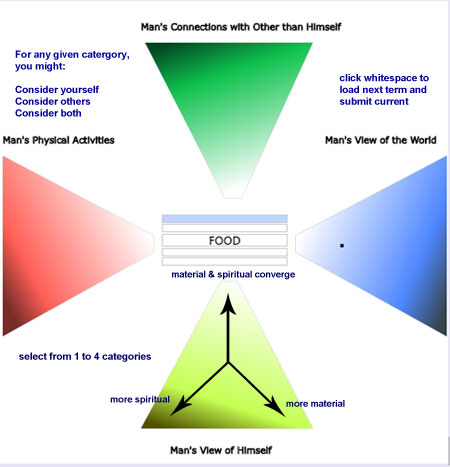
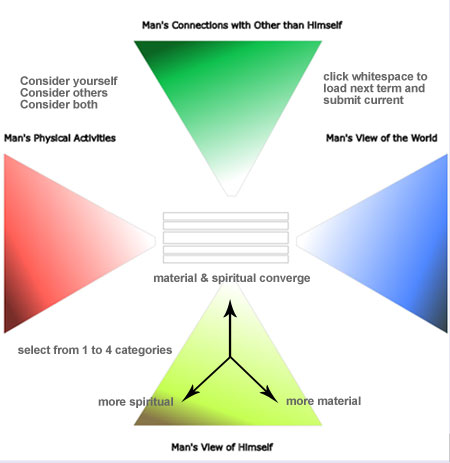
changed gradient and shape

diff --git a/public/js/s1-min.js b/public/js/s1-min.js
@@ -1,1 +1,1 @@
-Ybigh={counter:0,timeoutHandle:"",paths:[],current:"",saveSelection:[],counter_hash:[],click_counter:0,blue:null,green:null,red:null,yellow:null,data:null,confirmIndex:0,to_hex:function(o){return hex=o.toString(16),2==hex.length?hex:"0"+hex},clear:function(){Ybigh.$colors.fadeOut(Ybigh.$colors.remove),Ybigh.timeoutHandle=window.setTimeout(function(){"make-bold active"===$("#"+Ybigh.current).attr("class")&&$("#removeSelections").prop("disabled",!1),Ybigh.show(),$(".cl.world").css({"background-color":"white"}),$(".cl.others").css({"background-color":"white"}),$(".cl.activities").css({"background-color":"white"}),$(".cl.himself").css({"background-color":"white"}),Ybigh.blue=null,Ybigh.green=null,Ybigh.red=null,Ybigh.yellow=null},500)},submitCleared:function(){var o={name:Ybigh.current,wordID:123};$.ajax({type:"POST",url:"/symbol",data:JSON.stringify(o),error:function(o,e,t){},success:function(o){console.log(o),$("#"+Ybigh.current).removeClass("make-bold"),$("#removeSelections").prop("disabled",!0),Ybigh.counter>3&&$("#done").prop("disabled",!1).removeClass("dis")}})},startCounter:function(){Ybigh.timeoutHandle=window.setTimeout(function(){Ybigh.show()},500)},show:function(){var o=$("#phone").html();$(".word");let e;Ybigh.$colors=$('<canvas title="Once selections are made, click whitespace to submit current and load the next word" id="can" height="552" width="552"></canvas>'),$("#container").append(Ybigh.$colors.fadeIn()),Ybigh.colorctx=Ybigh.$colors[0].getContext("2d");var t=getAbsoluteBoundingRect(Ybigh.$colors[0]),c=t.left,l=t.top;Ybigh.render(!0),Ybigh.$colors.on("touchstart mouseup",function(t){if(t.preventDefault(),!Ybigh.current)return void alert("Click a term on the right then make selection(s)");let i="true"===o?t.changedTouches[0]:t,r=i.clientX,h=i.clientY,a=parseInt(r-c),n=parseInt(h-l);var g=0;for(g=0;g<Ybigh.paths.length&&!(e=Ybigh.colorctx.isPointInPath(Ybigh.paths[g],a,n));g++);if(e){let o=Ybigh.get_color(i);if("world"==Ybigh.paths[g].objID){let e=Ybigh.colorctx.createLinearGradient(580,300,90,90);e.addColorStop(0,"#36454F"),e.addColorStop(.1,"#4f87ff"),e.addColorStop(.37,"white"),Ybigh.colorctx.beginPath(),Ybigh.colorctx.moveTo(550,185),Ybigh.colorctx.lineTo(370,280),Ybigh.colorctx.lineTo(370,300),Ybigh.colorctx.lineTo(550,400),Ybigh.colorctx.closePath(),Ybigh.colorctx.fillStyle=e,Ybigh.colorctx.strokeStyle="#D0D0D0",Ybigh.colorctx.stroke(),Ybigh.colorctx.fill(),Ybigh.click_counter+=1,o.name=Ybigh.current,o.category=8,Ybigh.blue=o,Ybigh.colorctx.setTransform(1,0,0,1,0,0),Ybigh.colorctx.fillStyle="#000000",Ybigh.colorctx.fillRect(o.x-2,o.y-2,4,4),Ybigh.counter_hash.push({count:Ybigh.click_counter,category:o.category})}else if("others"==Ybigh.paths[g].objID){let e=Ybigh.colorctx.createLinearGradient(-45,120,27,323);e.addColorStop(.1,"#014421"),e.addColorStop(.37,"#0fc14e"),e.addColorStop(1,"white"),Ybigh.colorctx.beginPath(),Ybigh.colorctx.moveTo(190,50),Ybigh.colorctx.lineTo(285,235),Ybigh.colorctx.lineTo(305,235),Ybigh.colorctx.lineTo(390,50),Ybigh.colorctx.closePath(),Ybigh.colorctx.fillStyle=e,Ybigh.colorctx.strokeStyle="#D0D0D0",Ybigh.colorctx.stroke(),Ybigh.colorctx.fill(),Ybigh.click_counter+=1,o.name=Ybigh.current,o.category=2,Ybigh.green=o,Ybigh.colorctx.beginPath(),Ybigh.colorctx.setTransform(1,0,0,1,0,0),Ybigh.colorctx.fillStyle="#000000",Ybigh.colorctx.fillRect(o.x-2,o.y-2,4,4),Ybigh.counter_hash.push({count:Ybigh.click_counter,category:o.category})}else if("activities"==Ybigh.paths[g].objID){let e=Ybigh.colorctx.createLinearGradient(-10,300,380,90);e.addColorStop(0,"#662825"),e.addColorStop(.1,"#ff5f57"),e.addColorStop(.43,"white"),Ybigh.colorctx.beginPath(),Ybigh.colorctx.moveTo(20,185),Ybigh.colorctx.lineTo(200,280),Ybigh.colorctx.lineTo(200,300),Ybigh.colorctx.lineTo(20,400),Ybigh.colorctx.closePath(),Ybigh.colorctx.fillStyle=e,Ybigh.colorctx.strokeStyle="#D0D0D0",Ybigh.colorctx.stroke(),Ybigh.colorctx.fill(),Ybigh.click_counter+=1,o.name=Ybigh.current,o.category=4,Ybigh.red=o,Ybigh.colorctx.setTransform(1,0,0,1,0,0),Ybigh.colorctx.fillStyle="#000000",Ybigh.colorctx.fillRect(o.x-2,o.y-2,4,4),Ybigh.counter_hash.push({count:Ybigh.click_counter,category:o.category})}else{let e=Ybigh.colorctx.createLinearGradient(-25,485,50,250);e.addColorStop(.2,"#525100"),e.addColorStop(.4,"#c5ff52"),e.addColorStop(1,"white"),Ybigh.colorctx.beginPath(),Ybigh.colorctx.moveTo(185,510),Ybigh.colorctx.lineTo(280,335),Ybigh.colorctx.lineTo(300,335),Ybigh.colorctx.lineTo(390,510),Ybigh.colorctx.closePath(),Ybigh.colorctx.fillStyle=e,Ybigh.colorctx.strokeStyle="#D0D0D0",Ybigh.colorctx.stroke(),Ybigh.colorctx.fill(),Ybigh.click_counter+=1,o.name=Ybigh.current,o.category=1,Ybigh.yellow=o,Ybigh.colorctx.setTransform(1,0,0,1,0,0),Ybigh.colorctx.fillStyle="#000000",Ybigh.colorctx.fillRect(o.x-2,o.y-2,4,4),Ybigh.counter_hash.push({count:Ybigh.click_counter,category:o.category})}$(".cl."+Ybigh.paths[g].objID).css({"background-color":o.c})}else if(Ybigh.blue||Ybigh.red||Ybigh.green||Ybigh.yellow){$("#word_list li").removeClass("active");var s=parseInt($("#"+Ybigh.current).attr("data")),b=$("#word_list").find("[data='"+s+"']")[0],Y=s+1,u=$("#word_list").find("[data='"+Y+"']")[0];if(Ybigh.checkIfDone(u))$(u).addClass("active"),Ybigh.next(u,b),s>18&&$("#word_list").scrollTo("+=35",800);else{var d=Y+1,x=$("#word_list").find("[data='"+d+"']")[0];$(x).addClass("active"),Ybigh.next(x,b),d>18&&$("#word_list").scrollTo("+=35",800)}}}),Ybigh.$colors.on("mousemove",function(o){o.preventDefault();let e=parseInt(o.clientX-c),t=parseInt(o.clientY-l);for(var i=0;i<Ybigh.paths.length;i++){Ybigh.colorctx.isPointInPath(Ybigh.paths[i],e,t)&&Ybigh.$colors.css("cursor","crosshair")}})},checkIfDone:function(o){return"make-bold"!==$(o).attr("class")},bind_inputs:function(o){$("#overlay").css("display","block"),$.get("/Stage1/data",function(o){var e;Ybigh.data=o.data,Ybigh.show(),$("#clear").click(Ybigh.clear),$("#done").click(Ybigh.done),$("#removeSelections").click(Ybigh.submitCleared);var t=$("#word_list");$.each(Ybigh.data,function(o,c){var l=$('<li data="'+o+'" id="'+this+'">'+this+"</li>").on("touchstart mouseup",function(){if($("#removeSelections").prop("disabled",!0),$("#word_list li").removeClass("active"),"make-bold"===$(this).attr("class"))return Ybigh.blue||Ybigh.green||Ybigh.red||Ybigh.yellow?($(e).addClass("active"),void alert("Clear or submit active symbol before viewing another symbol")):($(this).addClass("active"),Ybigh.getPreviousState(this),void(e=this));Ybigh.current=$(this).html(),$(".word").val($(this).html().toUpperCase()),$(this).addClass("active"),(Ybigh.blue||Ybigh.green||Ybigh.red||Ybigh.yellow)&&Ybigh.current!==$(e).html()&&Ybigh.next(this,e),e=this});t.append(l)}),$("#overlay").css("display","none")})},next:function(o,e){$(".cl.world").css({"background-color":"white"}),$(".cl.others").css({"background-color":"white"}),$(".cl.activities").css({"background-color":"white"}),$(".cl.himself").css({"background-color":"white"}),Ybigh.close();let t=Ybigh.counter_hash.filter(function(o,e,t){return t.findIndex(function(e){return e.category==o.category})===e}).map(function(o){return{count:Ybigh.counter_hash.filter(function(e){return e.category==o.category}).reduce(function(o,e){return e.count<o?e.count:o}).count,category:o.category}});for(var c=0;c<t.length;c++)Ybigh.yellow&&Ybigh.yellow.category===t[c].category&&(Ybigh.yellow.clicked=t[c].count,Ybigh.saveSelection.push(Ybigh.yellow)),Ybigh.green&&Ybigh.green.category===t[c].category&&(Ybigh.green.clicked=t[c].count,Ybigh.saveSelection.push(Ybigh.green)),Ybigh.red&&Ybigh.red.category===t[c].category&&(Ybigh.red.clicked=t[c].count,Ybigh.saveSelection.push(Ybigh.red)),Ybigh.blue&&Ybigh.blue.category===t[c].category&&(Ybigh.blue.clicked=t[c].count,Ybigh.saveSelection.push(Ybigh.blue));Ybigh.saveSelection.sort(function(o,e){return o.count-e.count}),Ybigh.submit(Ybigh.saveSelection,o,e),Ybigh.saveSelection.length=0,Ybigh.blue=null,Ybigh.green=null,Ybigh.red=null,Ybigh.yellow=null},getPreviousState:function(o){for(var e=$(o).html(),t=[{c:"#81dea2",x:329,y:92,percentx:59.49367088607595,percenty:16.636528028933093,name:e,category:2,clicked:1},{c:"#cadbff",x:451,y:278,percentx:81.55515370705244,percenty:50.27124773960217,name:e,category:8,clicked:2},{c:"#ffe3e2",x:156,y:283,percentx:28.20976491862568,percenty:51.17540687160941,name:e,category:4,clicked:3},{c:"#e0ffa2",x:266,y:489,percentx:48.10126582278481,percenty:88.42676311030742,name:e,category:1,clicked:4}],c=0;c<t.length;c++)switch(Ybigh.colorctx.setTransform(1,0,0,1,0,0),Ybigh.colorctx.fillStyle="#000000",Ybigh.colorctx.fillRect(t[c].x-2,t[c].y-2,4,4),t[c].category){case 1:$(".cl.himself").css({"background-color":t[c].c}),Ybigh.yellow=t[c],Ybigh.counter_hash.push({count:t[c].click,category:t[c].category});break;case 2:$(".cl.others").css({"background-color":t[c].c}),Ybigh.green=t[c],Ybigh.counter_hash.push({count:t[c].click,category:t[c].category});break;case 4:$(".cl.activities").css({"background-color":t[c].c}),Ybigh.red=t[c],Ybigh.counter_hash.push({count:t[c].click,category:t[c].category});break;case 8:$(".cl.world").css({"background-color":t[c].c}),Ybigh.blue=t[c],Ybigh.counter_hash.push({count:t[c].click,category:t[c].category})}Ybigh.current=e,$(".word").val(e.toUpperCase())},done:function(o){(Ybigh.yellow||Ybigh.blue||Ybigh.red||Ybigh.green)&&Ybigh.next(),window.location.href="/Stage2"},submit:function(o,e,t){$("#overlay").css("display","block"),$.ajax({type:"POST",url:"/symbol",data:JSON.stringify(o),error:function(o,e,t){$("#overlay").css("display","none")},success:function(c){o.length=0,Ybigh.counter+=1,e&&t?(Ybigh.current=$(e).html(),$(".word").val($(e).html().toUpperCase()),$(t).addClass("make-bold")):$(t).addClass("make-bold"),Ybigh.counter>3&&$("#done").prop("disabled",!1).removeClass("dis"),$("#overlay").css("display","none")}})},close:function(){Ybigh.$colors.fadeOut(Ybigh.$colors.remove),Ybigh.startCounter()},get_color:function(o){var e=o.pageX-Ybigh.$colors.offset().left,t=o.pageY-Ybigh.$colors.offset().top,c=Ybigh.colorctx.getImageData(e,t,1,1).data,l=e/$("#can").width()*100,i=t/$("#can").height()*100;return{c:"#"+Ybigh.to_hex(c[0])+Ybigh.to_hex(c[1])+Ybigh.to_hex(c[2]),x:e,y:t,percentx:l,percenty:i}},render:function(o){var e,t=[{nameID:"others",col1:"white",col2:"#0fc14e",col0:"#014421",x:190,y:50,xlt:285,ylt:235,xlt1:305,ylt1:235,xlt2:390,ylt2:50,sy:120,fy:323,sx:-45,fx:27,stop1:.1,stop2:.37,stop3:1,labelX:185,labelY:35,label:"Man's Connections with Other than Himself"},{nameID:"activities",col1:"white",col2:"#ff5f57",col0:"#772d29",x:20,y:185,xlt:200,ylt:280,xlt1:200,ylt1:300,xlt2:20,ylt2:400,sy:300,fy:90,sx:-10,fx:380,stop1:0,stop2:.1,stop3:.43,labelX:20,labelY:170,label:"Man's Physical Activities"},{nameID:"world",col1:"white",col2:"#4f87ff",col0:"#36454F",x:550,y:185,xlt:370,ylt:280,xlt1:370,ylt1:300,xlt2:550,ylt2:400,sy:300,fy:90,sx:580,fx:90,stop1:0,stop2:.1,stop3:.37,labelX:405,labelY:170,label:"Man's View of the World"},{nameID:"himself",col1:"white",col2:"#c5ff52",col0:"#525100",x:185,y:510,xlt:280,ylt:335,xlt1:300,ylt1:335,xlt2:390,ylt2:510,sy:485,fy:250,sx:-25,fx:50,stop1:.2,stop2:.4,stop3:1,labelX:220,labelY:540,label:"Man's View of Himself"}];Path2D.prototype.getID=function(o){this.objID=o};for(var c=0;c<t.length;c++){(e=("others"==t[c].nameID||t[c].nameID,Ybigh.colorctx.createLinearGradient(t[c].sx,t[c].sy,t[c].fx,t[c].fy))).addColorStop(t[c].stop1,t[c].col0),e.addColorStop(t[c].stop2,t[c].col2),e.addColorStop(t[c].stop3,t[c].col1);var l=new Path2D;l.moveTo(t[c].x,t[c].y),l.lineTo(t[c].xlt,t[c].ylt),l.lineTo(t[c].xlt1,t[c].ylt1),l.lineTo(t[c].xlt2,t[c].ylt2),l.closePath(),l.getID(t[c].nameID),Ybigh.colorctx.fillStyle=e,Ybigh.colorctx.strokeStyle="#D0D0D0",Ybigh.colorctx.stroke(l),Ybigh.colorctx.fill(l),o&&(Ybigh.paths.push(l),Ybigh.colorctx.strokeStyle="black",Ybigh.colorctx.font="11px verdana",Ybigh.colorctx.strokeText(t[c].label,t[c].labelX,t[c].labelY))}}},Ybigh.bind_inputs();
+Ybigh={counter:0,timeoutHandle:"",paths:[],current:"",saveSelection:[],counter_hash:[],click_counter:0,blue:null,green:null,red:null,yellow:null,data:null,confirmIndex:0,to_hex:function(o){return hex=o.toString(16),2==hex.length?hex:"0"+hex},clear:function(){Ybigh.$colors.fadeOut(Ybigh.$colors.remove),Ybigh.timeoutHandle=window.setTimeout(function(){"make-bold active"===$("#"+Ybigh.current).attr("class")&&$("#removeSelections").prop("disabled",!1),Ybigh.show(),$(".cl.world").css({"background-color":"white"}),$(".cl.others").css({"background-color":"white"}),$(".cl.activities").css({"background-color":"white"}),$(".cl.himself").css({"background-color":"white"}),Ybigh.blue=null,Ybigh.green=null,Ybigh.red=null,Ybigh.yellow=null},500)},submitCleared:function(){var o={name:Ybigh.current,wordID:123};$.ajax({type:"POST",url:"/symbol",data:JSON.stringify(o),error:function(o,e,t){},success:function(o){console.log(o),$("#"+Ybigh.current).removeClass("make-bold"),$("#removeSelections").prop("disabled",!0),Ybigh.counter>3&&$("#done").prop("disabled",!1).removeClass("dis")}})},startCounter:function(){Ybigh.timeoutHandle=window.setTimeout(function(){Ybigh.show()},500)},show:function(){var o=$("#phone").html();$(".word");let e;Ybigh.$colors=$('<canvas title="Once selections are made, click whitespace to submit current and load the next word" id="can" height="552" width="552"></canvas>'),$("#container").append(Ybigh.$colors.fadeIn()),Ybigh.colorctx=Ybigh.$colors[0].getContext("2d");var t=getAbsoluteBoundingRect(Ybigh.$colors[0]),c=t.left,l=t.top;Ybigh.render(!0),Ybigh.$colors.on("touchstart mouseup",function(t){if(t.preventDefault(),!Ybigh.current)return void alert("Click a term on the right then make selection(s)");let i="true"===o?t.changedTouches[0]:t,r=i.clientX,h=i.clientY,a=parseInt(r-c),n=parseInt(h-l);var g=0;for(g=0;g<Ybigh.paths.length&&!(e=Ybigh.colorctx.isPointInPath(Ybigh.paths[g],a,n));g++);if(e){let o=Ybigh.get_color(i);if("world"==Ybigh.paths[g].objID){let e=Ybigh.colorctx.createLinearGradient(585,310,90,95);e.addColorStop(0,"#36454F"),e.addColorStop(.1,"#4f87ff"),e.addColorStop(.37,"white"),Ybigh.colorctx.beginPath(),Ybigh.colorctx.moveTo(550,185),Ybigh.colorctx.lineTo(370,285),Ybigh.colorctx.lineTo(370,295),Ybigh.colorctx.lineTo(550,400),Ybigh.colorctx.closePath(),Ybigh.colorctx.fillStyle=e,Ybigh.colorctx.strokeStyle="#D0D0D0",Ybigh.colorctx.stroke(),Ybigh.colorctx.fill(),Ybigh.click_counter+=1,o.name=Ybigh.current,o.category=8,Ybigh.blue=o,Ybigh.colorctx.setTransform(1,0,0,1,0,0),Ybigh.colorctx.fillStyle="#000000",Ybigh.colorctx.fillRect(o.x-2,o.y-2,4,4),Ybigh.counter_hash.push({count:Ybigh.click_counter,category:o.category})}else if("others"==Ybigh.paths[g].objID){let e=Ybigh.colorctx.createLinearGradient(-55,115,27,323);e.addColorStop(.2,"#0B6623"),e.addColorStop(.37,"#0fc14e"),e.addColorStop(1,"white"),Ybigh.colorctx.beginPath(),Ybigh.colorctx.moveTo(175,50),Ybigh.colorctx.lineTo(287,235),Ybigh.colorctx.lineTo(297,235),Ybigh.colorctx.lineTo(400,50),Ybigh.colorctx.closePath(),Ybigh.colorctx.fillStyle=e,Ybigh.colorctx.strokeStyle="#D0D0D0",Ybigh.colorctx.stroke(),Ybigh.colorctx.fill(),Ybigh.click_counter+=1,o.name=Ybigh.current,o.category=2,Ybigh.green=o,Ybigh.colorctx.beginPath(),Ybigh.colorctx.setTransform(1,0,0,1,0,0),Ybigh.colorctx.fillStyle="#000000",Ybigh.colorctx.fillRect(o.x-2,o.y-2,4,4),Ybigh.counter_hash.push({count:Ybigh.click_counter,category:o.category})}else if("activities"==Ybigh.paths[g].objID){let e=Ybigh.colorctx.createLinearGradient(-15,295,380,85);e.addColorStop(0,"#662825"),e.addColorStop(.1,"#ff5f57"),e.addColorStop(.42,"white"),Ybigh.colorctx.beginPath(),Ybigh.colorctx.moveTo(20,185),Ybigh.colorctx.lineTo(200,285),Ybigh.colorctx.lineTo(200,295),Ybigh.colorctx.lineTo(20,400),Ybigh.colorctx.closePath(),Ybigh.colorctx.fillStyle=e,Ybigh.colorctx.strokeStyle="#D0D0D0",Ybigh.colorctx.stroke(),Ybigh.colorctx.fill(),Ybigh.click_counter+=1,o.name=Ybigh.current,o.category=4,Ybigh.red=o,Ybigh.colorctx.setTransform(1,0,0,1,0,0),Ybigh.colorctx.fillStyle="#000000",Ybigh.colorctx.fillRect(o.x-2,o.y-2,4,4),Ybigh.counter_hash.push({count:Ybigh.click_counter,category:o.category})}else{let e=Ybigh.colorctx.createLinearGradient(-35,485,50,250);e.addColorStop(.25,"#877548"),e.addColorStop(.4,"#c5ff52"),e.addColorStop(1,"white"),Ybigh.colorctx.beginPath(),Ybigh.colorctx.moveTo(175,510),Ybigh.colorctx.lineTo(285,335),Ybigh.colorctx.lineTo(295,335),Ybigh.colorctx.lineTo(400,510),Ybigh.colorctx.closePath(),Ybigh.colorctx.fillStyle=e,Ybigh.colorctx.strokeStyle="#D0D0D0",Ybigh.colorctx.stroke(),Ybigh.colorctx.fill(),Ybigh.click_counter+=1,o.name=Ybigh.current,o.category=1,Ybigh.yellow=o,Ybigh.colorctx.setTransform(1,0,0,1,0,0),Ybigh.colorctx.fillStyle="#000000",Ybigh.colorctx.fillRect(o.x-2,o.y-2,4,4),Ybigh.counter_hash.push({count:Ybigh.click_counter,category:o.category})}$(".cl."+Ybigh.paths[g].objID).css({"background-color":o.c})}else if(Ybigh.blue||Ybigh.red||Ybigh.green||Ybigh.yellow){$("#word_list li").removeClass("active");var s=parseInt($("#"+Ybigh.current).attr("data")),b=$("#word_list").find("[data='"+s+"']")[0],Y=s+1,u=$("#word_list").find("[data='"+Y+"']")[0];if(Ybigh.checkIfDone(u))$(u).addClass("active"),Ybigh.next(u,b),s>18&&$("#word_list").scrollTo("+=35",800);else{var d=Y+1,x=$("#word_list").find("[data='"+d+"']")[0];$(x).addClass("active"),Ybigh.next(x,b),d>18&&$("#word_list").scrollTo("+=35",800)}}}),Ybigh.$colors.on("mousemove",function(o){o.preventDefault();let e=parseInt(o.clientX-c),t=parseInt(o.clientY-l);for(var i=0;i<Ybigh.paths.length;i++){Ybigh.colorctx.isPointInPath(Ybigh.paths[i],e,t)&&Ybigh.$colors.css("cursor","crosshair")}})},checkIfDone:function(o){return"make-bold"!==$(o).attr("class")},bind_inputs:function(o){$("#overlay").css("display","block"),$.get("/Stage1/data",function(o){var e;Ybigh.data=o.data,Ybigh.show(),$("#clear").click(Ybigh.clear),$("#done").click(Ybigh.done),$("#removeSelections").click(Ybigh.submitCleared);var t=$("#word_list");$.each(Ybigh.data,function(o,c){var l=$('<li data="'+o+'" id="'+this+'">'+this+"</li>").on("touchstart mouseup",function(){if($("#removeSelections").prop("disabled",!0),$("#word_list li").removeClass("active"),"make-bold"===$(this).attr("class"))return Ybigh.blue||Ybigh.green||Ybigh.red||Ybigh.yellow?($(e).addClass("active"),void alert("Clear or submit active symbol before viewing another symbol")):($(this).addClass("active"),Ybigh.getPreviousState(this),void(e=this));Ybigh.current=$(this).html(),$(".word").val($(this).html().toUpperCase()),$(this).addClass("active"),(Ybigh.blue||Ybigh.green||Ybigh.red||Ybigh.yellow)&&Ybigh.current!==$(e).html()&&Ybigh.next(this,e),e=this});t.append(l)}),$("#overlay").css("display","none")})},next:function(o,e){$(".cl.world").css({"background-color":"white"}),$(".cl.others").css({"background-color":"white"}),$(".cl.activities").css({"background-color":"white"}),$(".cl.himself").css({"background-color":"white"}),Ybigh.close();let t=Ybigh.counter_hash.filter(function(o,e,t){return t.findIndex(function(e){return e.category==o.category})===e}).map(function(o){return{count:Ybigh.counter_hash.filter(function(e){return e.category==o.category}).reduce(function(o,e){return e.count<o?e.count:o}).count,category:o.category}});for(var c=0;c<t.length;c++)Ybigh.yellow&&Ybigh.yellow.category===t[c].category&&(Ybigh.yellow.clicked=t[c].count,Ybigh.saveSelection.push(Ybigh.yellow)),Ybigh.green&&Ybigh.green.category===t[c].category&&(Ybigh.green.clicked=t[c].count,Ybigh.saveSelection.push(Ybigh.green)),Ybigh.red&&Ybigh.red.category===t[c].category&&(Ybigh.red.clicked=t[c].count,Ybigh.saveSelection.push(Ybigh.red)),Ybigh.blue&&Ybigh.blue.category===t[c].category&&(Ybigh.blue.clicked=t[c].count,Ybigh.saveSelection.push(Ybigh.blue));Ybigh.saveSelection.sort(function(o,e){return o.count-e.count}),Ybigh.submit(Ybigh.saveSelection,o,e),Ybigh.saveSelection.length=0,Ybigh.blue=null,Ybigh.green=null,Ybigh.red=null,Ybigh.yellow=null},getPreviousState:function(o){for(var e=$(o).html(),t=[{c:"#81dea2",x:329,y:92,percentx:59.49367088607595,percenty:16.636528028933093,name:e,category:2,clicked:1},{c:"#cadbff",x:451,y:278,percentx:81.55515370705244,percenty:50.27124773960217,name:e,category:8,clicked:2},{c:"#ffe3e2",x:156,y:283,percentx:28.20976491862568,percenty:51.17540687160941,name:e,category:4,clicked:3},{c:"#e0ffa2",x:266,y:489,percentx:48.10126582278481,percenty:88.42676311030742,name:e,category:1,clicked:4}],c=0;c<t.length;c++)switch(Ybigh.colorctx.setTransform(1,0,0,1,0,0),Ybigh.colorctx.fillStyle="#000000",Ybigh.colorctx.fillRect(t[c].x-2,t[c].y-2,4,4),t[c].category){case 1:$(".cl.himself").css({"background-color":t[c].c}),Ybigh.yellow=t[c],Ybigh.counter_hash.push({count:t[c].click,category:t[c].category});break;case 2:$(".cl.others").css({"background-color":t[c].c}),Ybigh.green=t[c],Ybigh.counter_hash.push({count:t[c].click,category:t[c].category});break;case 4:$(".cl.activities").css({"background-color":t[c].c}),Ybigh.red=t[c],Ybigh.counter_hash.push({count:t[c].click,category:t[c].category});break;case 8:$(".cl.world").css({"background-color":t[c].c}),Ybigh.blue=t[c],Ybigh.counter_hash.push({count:t[c].click,category:t[c].category})}Ybigh.current=e,$(".word").val(e.toUpperCase())},done:function(o){(Ybigh.yellow||Ybigh.blue||Ybigh.red||Ybigh.green)&&Ybigh.next(),window.location.href="/Stage2"},submit:function(o,e,t){$("#overlay").css("display","block"),$.ajax({type:"POST",url:"/symbol",data:JSON.stringify(o),error:function(o,e,t){$("#overlay").css("display","none")},success:function(c){o.length=0,Ybigh.counter+=1,e&&t?(Ybigh.current=$(e).html(),$(".word").val($(e).html().toUpperCase()),$(t).addClass("make-bold")):$(t).addClass("make-bold"),Ybigh.counter>3&&$("#done").prop("disabled",!1).removeClass("dis"),$("#overlay").css("display","none")}})},close:function(){Ybigh.$colors.fadeOut(Ybigh.$colors.remove),Ybigh.startCounter()},get_color:function(o){var e=o.pageX-Ybigh.$colors.offset().left,t=o.pageY-Ybigh.$colors.offset().top,c=Ybigh.colorctx.getImageData(e,t,1,1).data,l=e/$("#can").width()*100,i=t/$("#can").height()*100;return{c:"#"+Ybigh.to_hex(c[0])+Ybigh.to_hex(c[1])+Ybigh.to_hex(c[2]),x:e,y:t,percentx:l,percenty:i}},render:function(o){var e,t=[{nameID:"others",col1:"white",col2:"#0fc14e",col0:"#0B6623",x:175,y:50,xlt:287,ylt:235,xlt1:297,ylt1:235,xlt2:400,ylt2:50,sy:115,fy:323,sx:-55,fx:27,stop1:.2,stop2:.37,stop3:1,labelX:185,labelY:35,label:"Man's Connections with Other than Himself"},{nameID:"activities",col1:"white",col2:"#ff5f57",col0:"#772d29",x:20,y:185,xlt:200,ylt:285,xlt1:200,ylt1:295,xlt2:20,ylt2:400,sy:295,fy:85,sx:-15,fx:380,stop1:0,stop2:.1,stop3:.42,labelX:20,labelY:170,label:"Man's Physical Activities"},{nameID:"world",col1:"white",col2:"#4f87ff",col0:"#36454F",x:550,y:185,xlt:370,ylt:285,xlt1:370,ylt1:295,xlt2:550,ylt2:400,sy:310,fy:95,sx:585,fx:90,stop1:0,stop2:.1,stop3:.37,labelX:405,labelY:170,label:"Man's View of the World"},{nameID:"himself",col1:"white",col2:"#c5ff52",col0:"#877548",x:175,y:510,xlt:285,ylt:335,xlt1:295,ylt1:335,xlt2:400,ylt2:510,sy:485,fy:250,sx:-35,fx:50,stop1:.25,stop2:.4,stop3:1,labelX:220,labelY:540,label:"Man's View of Himself"}];Path2D.prototype.getID=function(o){this.objID=o};for(var c=0;c<t.length;c++){(e=("others"==t[c].nameID||t[c].nameID,Ybigh.colorctx.createLinearGradient(t[c].sx,t[c].sy,t[c].fx,t[c].fy))).addColorStop(t[c].stop1,t[c].col0),e.addColorStop(t[c].stop2,t[c].col2),e.addColorStop(t[c].stop3,t[c].col1);var l=new Path2D;l.moveTo(t[c].x,t[c].y),l.lineTo(t[c].xlt,t[c].ylt),l.lineTo(t[c].xlt1,t[c].ylt1),l.lineTo(t[c].xlt2,t[c].ylt2),l.closePath(),l.getID(t[c].nameID),Ybigh.colorctx.fillStyle=e,Ybigh.colorctx.strokeStyle="#D0D0D0",Ybigh.colorctx.stroke(l),Ybigh.colorctx.fill(l),o&&(Ybigh.paths.push(l),Ybigh.colorctx.strokeStyle="black",Ybigh.colorctx.font="11px verdana",Ybigh.colorctx.strokeText(t[c].label,t[c].labelX,t[c].labelY))}}},Ybigh.bind_inputs();

diff --git a/public/js/s1.js b/public/js/s1.js
@@ -124,7 +124,7 @@ Ybigh = {
 
                         if(Ybigh.paths[i].objID == "world"){//done done done
 
-                            let gradient = Ybigh.colorctx.createLinearGradient(580, 300, 90, 90);
+                            let gradient = Ybigh.colorctx.createLinearGradient(585, 310, 90, 95);
 
                             gradient.addColorStop(0,    "#36454F");//0
                             gradient.addColorStop(0.1,  "#4f87ff");//2
@@ -132,8 +132,8 @@ Ybigh = {
 
                             Ybigh.colorctx.beginPath()
                             Ybigh.colorctx.moveTo(550, 185);
-                            Ybigh.colorctx.lineTo(370, 280);
-                            Ybigh.colorctx.lineTo(370, 300);
+                            Ybigh.colorctx.lineTo(370, 285);
+                            Ybigh.colorctx.lineTo(370, 295);
                             Ybigh.colorctx.lineTo(550, 400);
                             Ybigh.colorctx.closePath();
                             Ybigh.colorctx.fillStyle = gradient;
@@ -154,16 +154,16 @@ Ybigh = {
                             //console.log(new_color);
                         }else if(Ybigh.paths[i].objID == "others"){//done done
 
-                            let gradient = Ybigh.colorctx.createLinearGradient(-45, 120, 27, 323);
+                            let gradient = Ybigh.colorctx.createLinearGradient(-55, 115, 27, 323);
 
-                            gradient.addColorStop(0.1,     "#014421"); 
+                            gradient.addColorStop(0.2,     "#0B6623"); 
                             gradient.addColorStop(0.37,    "#0fc14e");
                             gradient.addColorStop(1,       "white");                        
                             Ybigh.colorctx.beginPath();
-                            Ybigh.colorctx.moveTo(190, 50);
-                            Ybigh.colorctx.lineTo(285, 235);
-                            Ybigh.colorctx.lineTo(305, 235);
-                            Ybigh.colorctx.lineTo(390, 50);
+                            Ybigh.colorctx.moveTo(175, 50);
+                            Ybigh.colorctx.lineTo(287, 235);
+                            Ybigh.colorctx.lineTo(297, 235);
+                            Ybigh.colorctx.lineTo(400, 50);
                             Ybigh.colorctx.closePath();
                             Ybigh.colorctx.fillStyle = gradient;
                             Ybigh.colorctx.strokeStyle = "#D0D0D0"; 
@@ -184,16 +184,16 @@ Ybigh = {
                             //console.log(new_color);
                         }else if(Ybigh.paths[i].objID == "activities"){//done done done
 
-                            let gradient = Ybigh.colorctx.createLinearGradient(-10, 300, 380, 90);
+                            let gradient = Ybigh.colorctx.createLinearGradient(-15, 295, 380, 85);
 
                             gradient.addColorStop(0,    "#662825");
                             gradient.addColorStop(0.1,  "#ff5f57");
-                            gradient.addColorStop(0.43,  "white");
+                            gradient.addColorStop(0.42,  "white");
 
                             Ybigh.colorctx.beginPath();
                             Ybigh.colorctx.moveTo(20, 185);
-                            Ybigh.colorctx.lineTo(200, 280);
-                            Ybigh.colorctx.lineTo(200, 300);
+                            Ybigh.colorctx.lineTo(200, 285);
+                            Ybigh.colorctx.lineTo(200, 295);
                             Ybigh.colorctx.lineTo(20, 400);
                             Ybigh.colorctx.closePath();
                             Ybigh.colorctx.fillStyle = gradient;
@@ -214,17 +214,17 @@ Ybigh = {
                             //console.log(new_color);
                         }else{ //done done
 
-                            let gradient = Ybigh.colorctx.createLinearGradient(-25, 485, 50, 250); //x,y,x,y
+                            let gradient = Ybigh.colorctx.createLinearGradient(-35, 485, 50, 250); //x,y,x,y
 
-                            gradient.addColorStop(0.2,    "#525100");
+                            gradient.addColorStop(0.25,    "#877548");
                             gradient.addColorStop(0.4,    "#c5ff52");
                             gradient.addColorStop(1,    "white");
 
                             Ybigh.colorctx.beginPath();
-                            Ybigh.colorctx.moveTo(185, 510);
-                            Ybigh.colorctx.lineTo(280, 335);
-                            Ybigh.colorctx.lineTo(300, 335);
-                            Ybigh.colorctx.lineTo(390, 510);
+                            Ybigh.colorctx.moveTo(175, 510);
+                            Ybigh.colorctx.lineTo(285, 335);
+                            Ybigh.colorctx.lineTo(295, 335);
+                            Ybigh.colorctx.lineTo(400, 510);
                             Ybigh.colorctx.closePath();
                             Ybigh.colorctx.fillStyle = gradient;
                             Ybigh.colorctx.strokeStyle = "#D0D0D0"; 
@@ -558,20 +558,20 @@ Ybigh = {
                     nameID: "others",
                     col1: "white", //green
                     col2: "#0fc14e",
-                    col0: "#014421",
-                    x: 190,//190
+                    col0: "#0B6623",//  014421
+                    x: 175,//190
                     y: 50,
-                    xlt:285,//225
+                    xlt:287,//225
                     ylt:235,//
-                    xlt1:305,//350
+                    xlt1:297,//350
                     ylt1:235,//
-                    xlt2:390,//390
+                    xlt2:400,//390
                     ylt2:50,//
-                    sy: 120,
+                    sy: 115,
                     fy: 323,
-                    sx: -45,
+                    sx: -55,
                     fx: 27,
-                    stop1:0.1,
+                    stop1:0.2,
                     stop2:0.37,
                     stop3:1,
                     labelX: 185,
@@ -586,18 +586,18 @@ Ybigh = {
                     x: 20,//20
                     y: 185,//
                     xlt:200,//200
-                    ylt:280,//narrow
+                    ylt:285,//narrow
                     xlt1:200,//200
-                    ylt1:300,//chg
+                    ylt1:295,//chg
                     xlt2:20,//20
                     ylt2:400,//narrow
-                    sy:300,
-                    fy:90,
-                    sx: -10,
+                    sy:295,
+                    fy:85,
+                    sx: -15,
                     fx: 380,
                     stop1:0,
                     stop2:0.1,
-                    stop3:0.43,
+                    stop3:0.42,
                     labelX: 20,
                     labelY: 170,
                     label: "Man\'s Physical Activities"
@@ -610,14 +610,14 @@ Ybigh = {
                     x: 550,//550
                     y: 185,//
                     xlt:370,//370
-                    ylt:280,//chg
+                    ylt:285,//chg
                     xlt1:370,//370
-                    ylt1:300,//chg
+                    ylt1:295,//chg
                     xlt2:550,//550
                     ylt2:400,//
-                    sy:300,  //x0, y0, x1, y1
-                    fy:90,
-                    sx: 580,
+                    sy:310,  //x0, y0, x1, y1
+                    fy:95,
+                    sx: 585,
                     fx: 90,
                     stop1:0,
                     stop2:0.1,
@@ -628,22 +628,22 @@ Ybigh = {
                 },
                 {
                     nameID: "himself",
-                    col1: "white", //yellow
+                    col1: "white", //yellow done
                     col2: "#c5ff52",
-                    col0: "#525100",
-                    x: 185,//190
+                    col0: "#877548", //938200
+                    x: 175,//190
                     y: 510,
-                    xlt:280,//225
+                    xlt:285,//225
                     ylt:335,
-                    xlt1:300,//350
+                    xlt1:295,//350
                     ylt1:335,
-                    xlt2:390,//390
+                    xlt2:400,//390
                     ylt2:510,
                     sy: 485,
                     fy: 250,
-                    sx: -25,
+                    sx: -35,
                     fx: 50,
-                    stop1:0.2,
+                    stop1:0.25,
                     stop2:0.4,
                     stop3:1,
                     labelX: 220,
